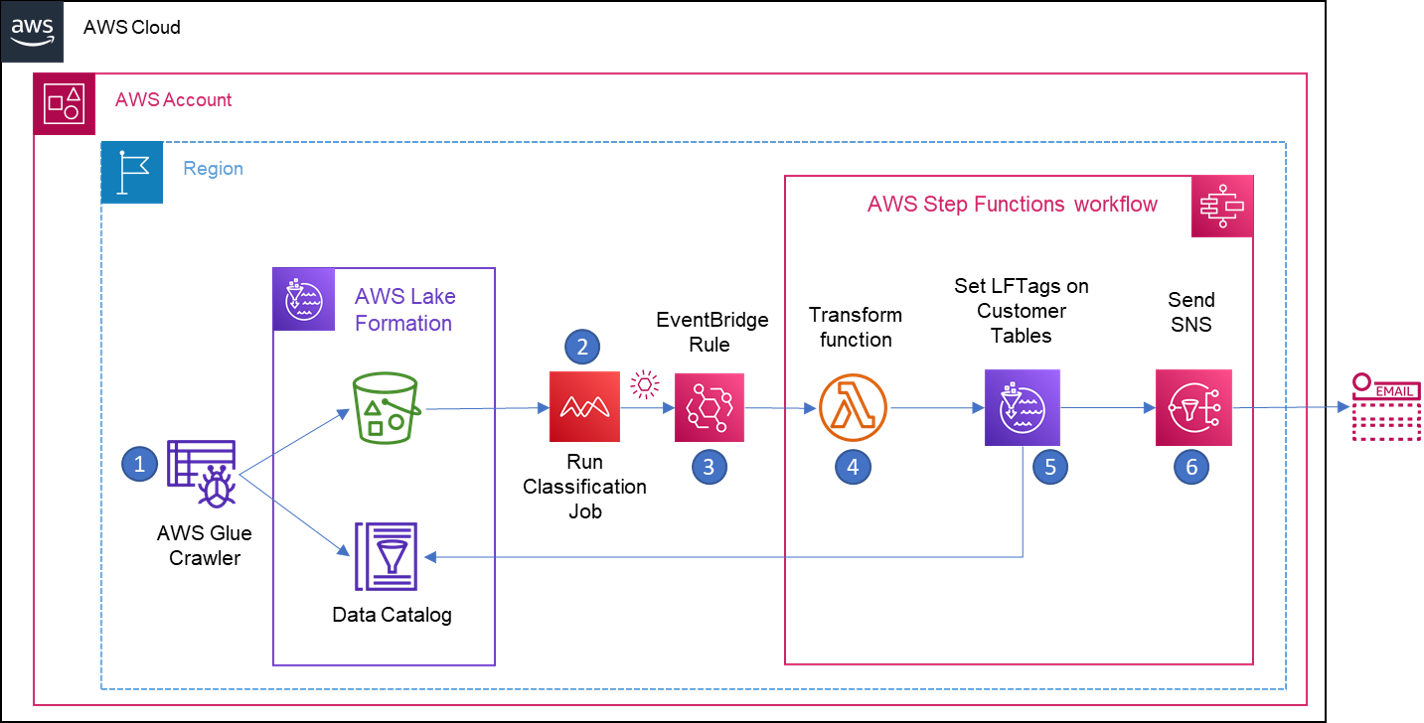
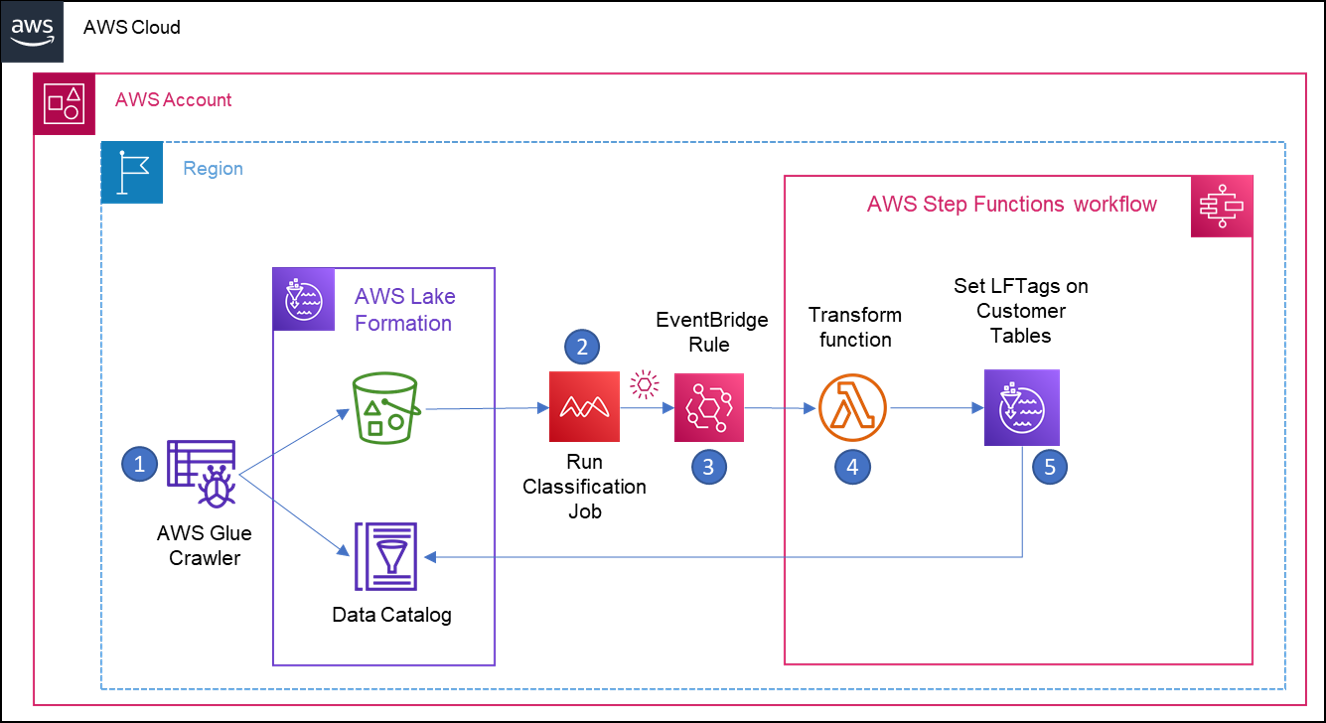
Minor updates post review

diff --git a/README.md b/README.md
@@ -22,7 +22,6 @@ The end solution will perform the following steps:
 3. Any findings from the classification job will be published as an event, and an Amazon Event Bridge rule with initiate an AWS Step Functions state machine.
 4. Within the state machine, an AWS Lambda function will transform the findings.
 5. For each column containing sensitive data, the state machine will update the value of the Classification tag in AWS Lake Formation.
-6. An SNS message will be sent once the update is complete, and an email will be sent to the registered email address with the fields that have been updated.
 
 We will also be using Amazon Athena to query the data and validate that access to sensitive data has been removed based on the values set for the Classification LFTag.
 
@@ -51,26 +50,25 @@ This template will create the following resources in your account:
 - Lambda function - macielflab-transformationFunction - this function will transform the classification job findings to update the LFTag values.
 - Step Function State Machine - macielflab-macieFindingOrchestration - an empty state machine to be configured.
 
-1. Download the "macielflab-template.json" CloudFormation template from :[CloudFormation Template](scripts/macielflab-template.json).
-2. Navigate to CloudFormation in the AWS Management Console. 
-3. Click "Create stack"
-4. Select "Upload a template file", then "Choose file". Navigate to and select the "macielflab-template.json" JSON template you downloaded. Click "Next".
-![](/images/cloudformation/template.PNG)
-5. For "Stack name", enter "macilflab-foundation", the click "Next".
+
+1. Click on the following link to launch the CloudFormation process. Please double check you are in the correct account.
+[![Launch Stack](https://s3.amazonaws.com/cloudformation-examples/cloudformation-launch-stack.png)](https://console.aws.amazon.com/cloudformation/home?region=us-east-1#/stacks/new?stackName=macilflab-foundation&templateURL=https://s3.amazonaws.com/ee-assets-prod-us-east-1/modules/1e02deca779a4be58b9d50513a464cdc/v1/macielflab/macielflab-template.json)
+2. For "Stack name", enter "macilflab-foundation", the click "Next".
 ![](/images/cloudformation/stackdetails.PNG)
-6. On the "Configure stack options" page, leave all the default values and click "Next".
-7. On the final page, scroll to the end of the page, and mark the check box next to "I acknowledge..." and click "Create stack".
+3. On the "Configure stack options" page, leave all the default values and click "Next".
+4. On the final page, scroll to the end of the page, and mark the check box next to "I acknowledge..." and click "Create stack".
 ![](/images/cloudformation/ackcreate.PNG)
-8. It should take roughly 3 minutes to complete.
+5. It should take roughly 3 minutes to complete.
 
 
 ## Step 1 - Configure AWS Lake Formation
 
 :information_source: If you are already using AWS Lake Formation in this account, you can skip this step, and proceed directly to Step 2. 
+
 :information_source: If you are not already using Lake Formation, but do have resources using the AWS Glue Catalog, please consider impact carefully and permissions will need to be updated. These steps should be completed in a non-production/sandbox account.
 
 By default, AWS Lake Formation uses the IAMAllowedPrincipals group to provide super permissions to users and roles, effectively delegating access control to IAM policies. Before we can use AWS Lake Formation to manage access to our data, we need to revoke access provided by the IAMAllowedPrincipals group. In this way, IAM policies provide coarse grained permssions, while Lake Formation manages fine grained access control to catalog resources and data.
-1. Navigate to Lake Formation in the AWS Management console. 
+1. Navigate to [Lake Formation](https://console.aws.amazon.com/lakeformation/) in the AWS Management console. 
 2. The first time you use AWS Lake Formation, you need to configure an Adminstrator. On the "Welcome to Lake Formation" dialog, leave "Add myself" selected and click "Get started".
 ![](/images/lakeformation/welcome.PNG)
 3. Click on "Settings, and uncheck the 2 checkboxes under "Data catalog settings", then click "Save".
@@ -108,14 +106,14 @@ In this lab, we're going to use a very small dataset that containers some sensit
 
 1. Download the following CSV file with dummy customer data: [customers.csv](data/customers.csv)
 2. Navigate to S3 in the AWS Management Console, and click on the bucket named "<accountID>-macielflab-data".
-3. Click "Create folder", and enter "customers" as the Folder name. Click "Create folder".
+3. Click "Create folder", and enter "Customers" as the Folder name - note that this name is case sensitive. Click "Create folder".
 ![](/images/s3/createfolder.PNG)
 4. Click into the newly created folder, click "Upload". Select the CSV file you downloaded earlier and click "Upload" to load the data into the bucket.
 ![](/images/s3/upload.PNG)
 
 ## Step 4 - Populate the Data Catalog
 
-1. Navigate to AWS Glue in the AWS Management Console. 
+1. Navigate to [AWS Glue](https://console.aws.amazon.com/glue) in the AWS Management Console. 
 2. click on "Crawlers" in the navigation pane.
 3. Select the checkbox next to the "macielflab-CustomerDataCrawler" crawler, then click "Run crawler".
 4. The crawler may take 1-2 minutes to complete. You should see the status change to "Stopping" or "Ready", with 1 table created. 
@@ -127,7 +125,7 @@ In the next steps, we'll configure Lake Formation tags on the database and check
 
 In this step, we're going to configure our Lake Formation LFTag ontology, set LF-Tag permissions and assign values to our customer table and datbase. 
 
-1. Navigate to Lake Formation in the AWS Management Console. 
+1. Navigate to [Lake Formation](https://console.aws.amazon.com/lakeformation) in the AWS Management Console. 
 2. Click on "Tables" in the navigation panel to confirm that our customer table has been created correctly. 
 ![](/images/lakeformation/table.PNG)
 3. Click on "LF-Tags" in the AWS Management Console.
@@ -173,7 +171,7 @@ The final step in this section is allocate "Classification=UNCLASSIFIED" to the 
 
 ## Step 5 - Validate permissions will Amazon Athena
 
-1. Navigate to Amazon Athena in the AWS Management Console.
+1. Navigate to [Amazon Athena](https://console.aws.amazon.com/athena) in the AWS Management Console.
 2. If this is the first time you're using Amazon Athena, click the "Explore the query editor" button; otherwise, click on "Query editor" in the navigation panel.
 3. Click on the "Settings" tab, then click on the "Manage" button.
 4. In the "Manage settings" page, for "Query result location and encryption" browse to the bucket named "<accountID>-macielflab-athena", then click "Save".
@@ -187,7 +185,7 @@ As you can see, the dataset includes some data that is potentially PII or sensit
 
 ## Step 6 - Extend the AWS Step Functions state machine
 
-1. Navigate to AWS Step Functions in the AWS Management Console.
+1. Navigate to [AWS Step Functions](https://console.aws.amazon.com/stepfunctions) in the AWS Management Console.
 2. You will see that a placeholder state machine named "macielflab-macieFindingOrchestration" has been created for you.
 3. Click on this state machine, the click the "Edit" button.
 4. On the next page, click on the "Workflow Studio" button in the top right hand corner. This will show you the initial state machine.
@@ -228,11 +226,12 @@ As you can see, the dataset includes some data that is potentially PII or sensit
 ```
 ![](/images/stepfunctions/action-updatetags.PNG)
 17. Click on the "Apply and exit" button in the top right hand corner of the page, then click "Save". 
+
 18. You will see a popup warning about IAM permissions. Click "Save anyway" to continue.	
 
 ## Step 7 - Create an AWS EventBridge rule
 Next, let's create an EventBridge rule that will trigger our state machine each time the Amazon Macie classification job completes. 
-1. Navigate to Amazon EventBridge in the AWS Management Console, and click "Create rule".
+1. Navigate to [Amazon EventBridge](https://console.aws.amazon.com/eventbridge) in the AWS Management Console, and click "Create rule".
 2. Enter "MacieLFLab-StartFunctionOnJobComplete" as the rule "Name", then click "Next".
 ![](/images/eventbridge/rule1.PNG)
 3. Under "Event pattern" at the bottom of the next page, select "Macie" in the "AWS Service" dropdown.
@@ -248,7 +247,7 @@ Next, let's create an EventBridge rule that will trigger our state machine each 
 
 ## Step 8 - Create the Amazon Macie classification job
 Our final task is to create and run an Amazon Macie classification job, and verify the results. 
-1. Navigate to Amazon Macie in the AWS Management Console. 
+1. Navigate to [Amazon Macie](https://console.aws.amazon.com/macie) in the AWS Management Console. 
 2. If this if the first time you've used Amazon Macie in the account, you will need to enable the service. Click on "Get started". Review the Macie information, then click "Enable Macie".
 3. Click "Jobs" in the navigation panel, then click "Create job"
 4. Mark the checkbox next to the bucket named "<accountID>-macielflab-data>". Leave all other buckets unchecked, then click "Next".
@@ -266,7 +265,7 @@ Our final task is to create and run an Amazon Macie classification job, and veri
 ## Step 9 - Validate the Changes
 
 
-1. Navigate to Amazon Athena in the AWS Management Console.
+1. Navigate to [Amazon Athena](https://console.aws.amazon.com/athena) in the AWS Management Console.
 2. Select the "Editor" tab, and execute the following statement again:
 ```
 SELECT * FROM "customer"."customers" limit 10;
@@ -274,7 +273,7 @@ SELECT * FROM "customer"."customers" limit 10;
 ![](/images/athena/data-after.PNG)
 As you can now see, the fields identified by the Macie classification job no longer appear in the query, as we don't have permission to view the columns tagged as "FINANCIAL_INFORMATION" or "PERSONAL_INFORMATION"
 
-3. Let's also also check the customer table in Lake Formation.  Navigate to AWS Lake Formation in the AWS Management Console.
+3. Let's also also check the customer table in Lake Formation.  Navigate to  [AWS Lake Formation](https://console.aws.amazon.com/lakeformation) in the AWS Management Console.
 4. Click on "LF-Tags" in the navigation panel, then click on the "Classification" tag to see the values. Note the LF-tag values for each column.
 ![](/images/lakeformation/final-tags.PNG)
 
